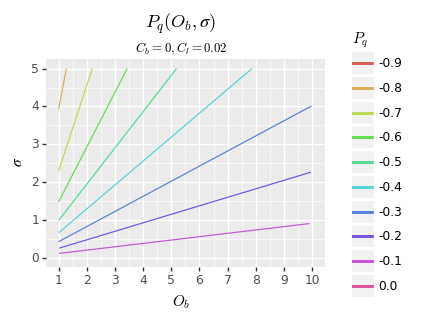
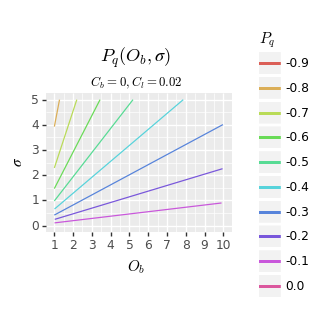
even smaller

diff --git a/images/matched-betting/plots.py b/images/matched-betting/plots.py
@@ -117,7 +117,7 @@ def main():
      + gg.geom_abline(slope=1, intercept=0,
                       linetype='dashed', color='grey')
      + gg.geom_line()
-    ).save(savepath('Pf_Ob_Ol.png'), width=3.6, height=2.7)
+    ).save(savepath('Pf_Ob_Ol.png'), width=2.4, height=1.8)
 
     df = concat_map(Pf_Ob_σ, 'P_f', np.linspace(0.1, 1, 10))
     (gg.ggplot(df, gg.aes('O_b', 'σ', group='P_f', color='P_f'))
@@ -126,7 +126,7 @@ def main():
      + labs('O_b', 'σ')
      + limits((1, 10), (0, 5))
      + gg.geom_line()
-    ).save(savepath('Pf_Ob_σ.png'), width=3.6, height=2.7)
+    ).save(savepath('Pf_Ob_σ.png'), width=2.4, height=1.8)
 
     df = concat_map(Pq_Ob_Ol, 'P_q', np.linspace(-0.9, 0, 10))
     (gg.ggplot(df, gg.aes('O_b', 'O_l', group='P_q', color='P_q'))
@@ -137,7 +137,7 @@ def main():
      + gg.geom_abline(slope=1, intercept=0,
                       linetype='dashed', color='grey')
      + gg.geom_line()
-    ).save(savepath('Pq_Ob_Ol.png'), width=3.6, height=2.7)
+    ).save(savepath('Pq_Ob_Ol.png'), width=2.4, height=1.8)
 
     df = concat_map(Pq_Ob_σ, 'P_q', np.linspace(-0.9, 0, 10))
     (gg.ggplot(df, gg.aes('O_b', 'σ', group='P_q', color='P_q'))
@@ -146,7 +146,7 @@ def main():
      + labs('O_b', 'σ')
      + limits((1, 10), (0, 5))
      + gg.geom_line()
-    ).save(savepath('Pq_Ob_σ.png'), width=3.6, height=2.7)
+    ).save(savepath('Pq_Ob_σ.png'), width=2.4, height=1.8)
 
     df = concat_map(Opr_Ob_Ol, 'Opr', np.linspace(1, 5, 9))
     (gg.ggplot(df, gg.aes('O_b', 'O_l', group='Opr', color='Opr'))
@@ -157,7 +157,7 @@ def main():
      + gg.geom_line()
      + gg.geom_abline(slope=1, intercept=0,
                       linetype='dashed', color='grey')
-    ).save(savepath('Opr_Ob_Ol.png'), width=3.6, height=2.7)
+    ).save(savepath('Opr_Ob_Ol.png'), width=2.4, height=1.8)
 
     df = concat_map(Opr_Ob_σ, 'Opr', np.linspace(1, 5, 9))
     (gg.ggplot(df, gg.aes('O_b', 'σ', group='Opr', color='Opr'))
@@ -166,7 +166,7 @@ def main():
      + labs('O_b', 'σ')
      + limits((1, 10), (0, 5))
      + gg.geom_line()
-    ).save(savepath('Opr_Ob_σ.png'), width=3.6, height=2.7)
+    ).save(savepath('Opr_Ob_σ.png'), width=2.4, height=1.8)
 
     df = (pd.DataFrame({'Opr': np.linspace(1, 20, 91)})
             .assign(Pf=lambda x: Opr_Pf(x.Opr)))
@@ -178,7 +178,7 @@ def main():
               ybreaks=np.linspace(0, 1, 11))
      + gg.geom_line()
      + gg.geom_hline(yintercept=C, linetype='dashed', color='grey')
-    ).save(savepath('Pf_Opr.png'), width=3.6, height=2.7)
+    ).save(savepath('Pf_Opr.png'), width=2.4, height=1.8)
 
     df = concat_map(σpr_Ob_σ, 'σpr', np.linspace(0, 5, 11))
     (gg.ggplot(df, gg.aes('O_b', 'σ', group='σpr', color='σpr'))
@@ -187,7 +187,7 @@ def main():
      + labs('O_b', 'σ')
      + limits((1, 10), (0, 5))
      + gg.geom_line()
-    ).save(savepath('σpr_Ob_σ.png'), width=3.6, height=2.7)
+    ).save(savepath('σpr_Ob_σ.png'), width=2.4, height=1.8)
 
     df = (pd.DataFrame({'σpr': np.linspace(0, 20, 101)})
             .assign(Pq=lambda x: σpr_Pq(x.σpr)))
@@ -198,7 +198,7 @@ def main():
               xbreaks=np.linspace(0, 20, 11),
               ybreaks=np.linspace(-1, 0, 11))
      + gg.geom_line()
-    ).save(savepath('Pq_σpr.png'), width=3.6, height=2.7)
+    ).save(savepath('Pq_σpr.png'), width=2.4, height=1.8)
 
 if __name__ == '__main__':
     main()
